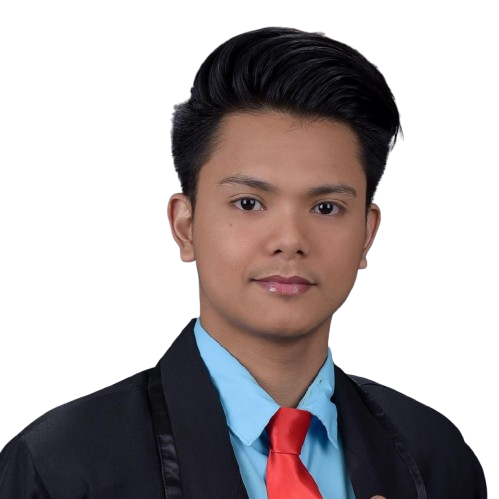
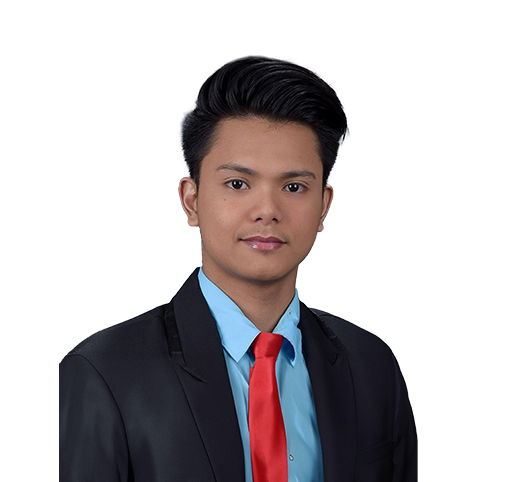
updated on profile

diff --git a/about-us.html b/about-us.html
@@ -2644,13 +2644,13 @@
                 data-widget_type="image.default">
                 <div class="elementor-widget-container">
                   <img loading="lazy" decoding="async" width="800" height="800"
-                    src="https://kfkit.rometheme.pro/beyond/wp-content/uploads/sites/84/2024/06/team-10.png"
+                    src="./img/team/Keith.png"
                     class="attachment-large size-large wp-image-2069" alt="" srcset="
-                      https://kfkit.rometheme.pro/beyond/wp-content/uploads/sites/84/2024/06/team-10.png         900w,
-                      https://kfkit.rometheme.pro/beyond/wp-content/uploads/sites/84/2024/06/team-10.png 300w,
-                      https://kfkit.rometheme.pro/beyond/wp-content/uploads/sites/84/2024/06/team-10.png 150w,
+                      ./img/team/Keith.png         900w,
+                     ./img/team/Keith.png 300w,
+                      ./img/team/Keith.png 150w,
                       https://kfkit.rometheme.pro/beyond/wp-content/uploads/sites/84/2024/06/team-10.png 768w,
-                      https://kfkit.rometheme.pro/beyond/wp-content/uploads/sites/84/2024/06/team-10.png 800w
+                      ./img/team/Keith.png 800w
                     " sizes="(max-width: 800px) 100vw, 800px" />
                 </div>
               </div>
